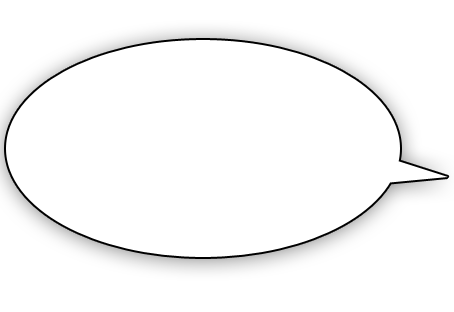
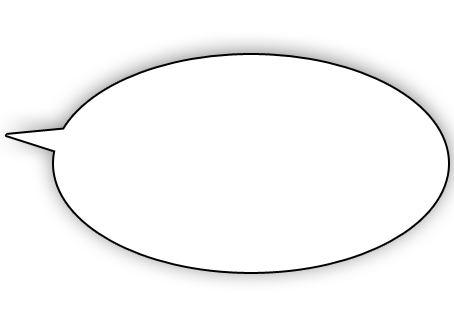
maj front

Changed region(s): [[0.0, 0.0865, 1.0, 0.8942]]

diff --git a/assets/css/style.css b/assets/css/style.css
@@ -141,10 +141,8 @@ section#content {
 
 #border{
     height: 100%;
-    padding: 5px;
-    margin-bottom: 10px;
-    border: 1px solid black;
-    border-radius: 5px;
+    padding: 10px 10px 160px 10px;
+    border: 2px solid #E4CAAD;
 }
 
 div#content-indice{
@@ -159,9 +157,9 @@ div#style-indice {
     height: 100px;
 }
 
-#indice img{
-    float: right;
-    margin-right: 10%;
+#indice img {
+    position: absolute;
+    left: 40px;
 }
 
 #bulle{
@@ -171,15 +169,15 @@ div#style-indice {
 #bulle p{
     z-index: 2;
     position: absolute;
-    top: 40px;
-    left: 40px;
+    top: 50px;
+    left: 180px;
 }
 
 #bulle img{
     z-index: 1;
     position: absolute;
     width: 240px;
-    float: left;
+    left: 30%;
 }
 
 div#content-enigme{
@@ -209,7 +207,7 @@ div#panoDIV.cursorDragMode {
 }
 
 div#tourDIV {
-    height:60%;
+    height:75%;
     position:relative;
 }
 
@@ -286,11 +284,11 @@ div#panoDIV {
     }
 
     #bulle p{
-        top: 55px;
-        left: 75px;
+        top: 60px;
+        left: 160px;
     }
 
     #bulle img{
-        margin-left: 40px;
+        margin-left: -5px;
     }
 }

diff --git a/index.html b/index.html
@@ -300,7 +300,7 @@
                 <p>Bienvenue !! <br> Je suis la pour <br> t'aider pendant ta visite.</p>
                 <img src="assets/imgs/bulle.png" alt="">
             </div>
-            <img src="assets/imgs/enqueteur_normal.png" width="100"/>
+            <img src="assets/imgs/enqueteur_normal.png" width="80"/>
         </div>
     </div>
 
